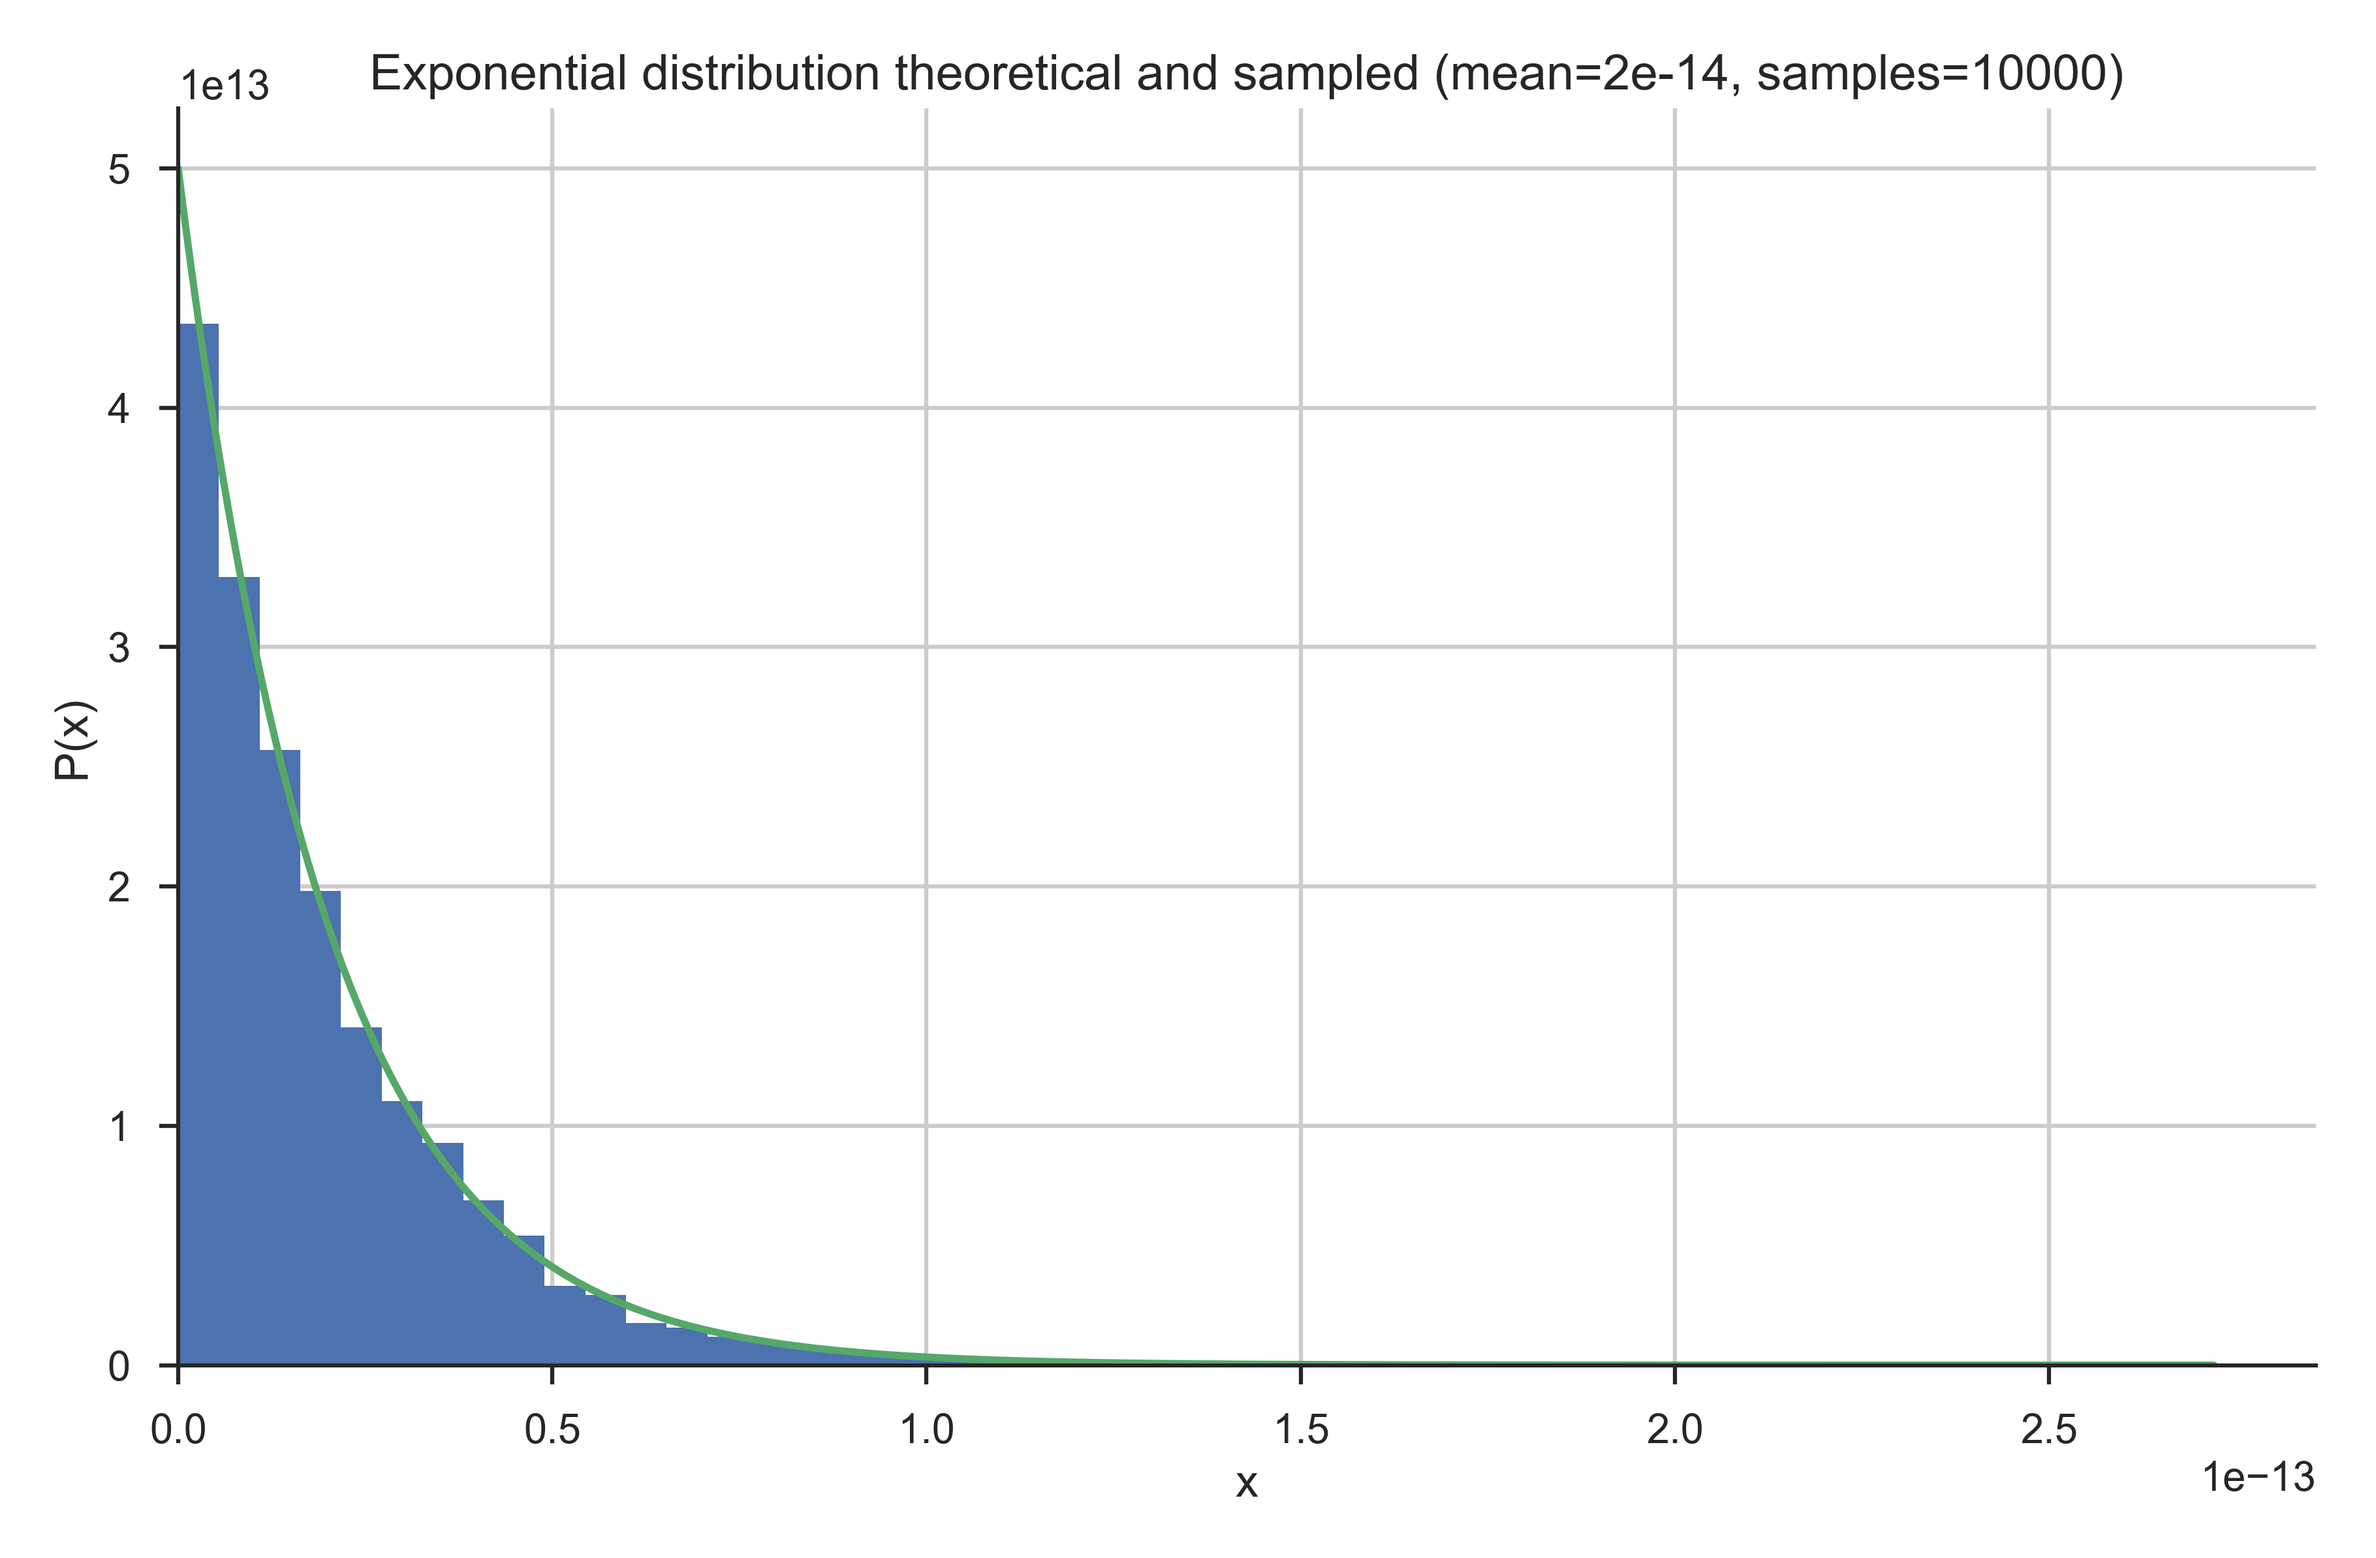
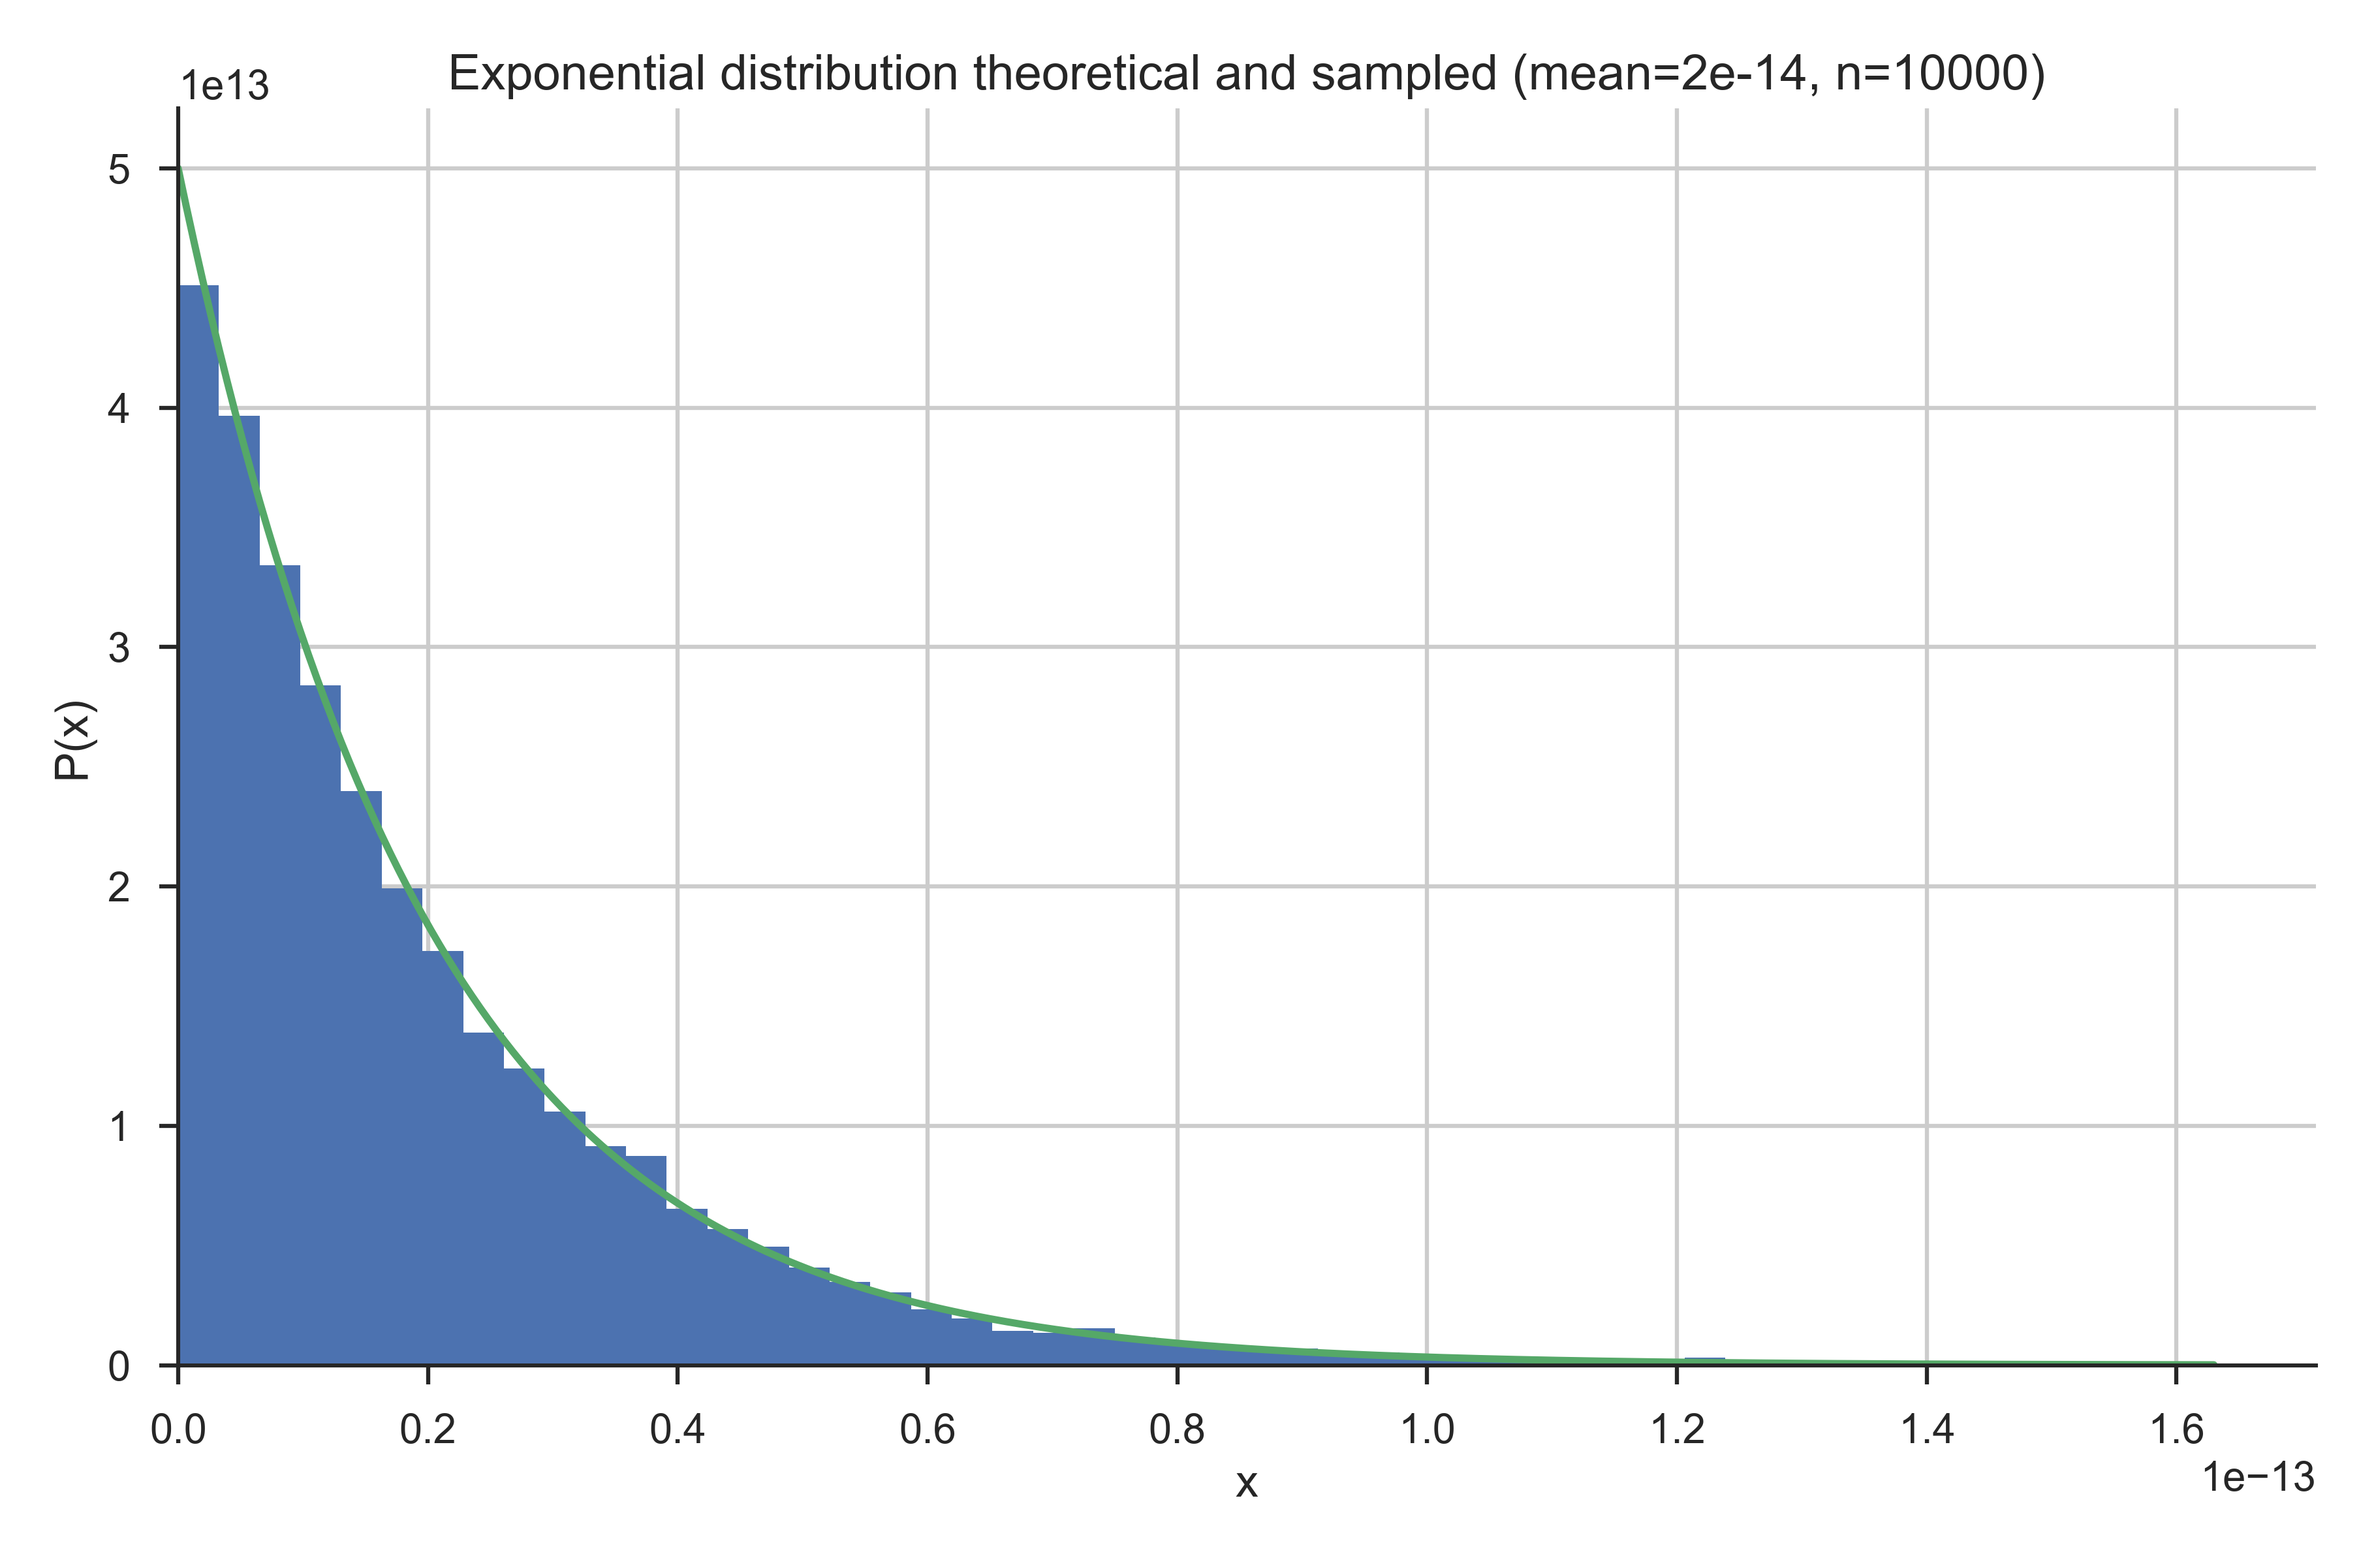
Update

diff --git a/helperFunctions.py b/helperFunctions.py
@@ -10,7 +10,7 @@ import matplotlib.pyplot as plt
 import seaborn as sns
 import numpy  as np
 from scipy import signal
-from modelAttributes import radarVals, linear2db, finalValues, expNoise
+from modelAttributes import radarVals, linear2db, finalValues, expNoise, chiNoise
 
 
 # Print  out initial attributes
@@ -82,7 +82,7 @@ def generatePt3q1Figures():
     sampleNum = 10e3
     gSamples = expNoise(sampleNum, meanValue)
     
-    # Create theoretical
+    # Create theoretical exponential
     xx = np.linspace(0, np.max(gSamples), 500)
     yy = (1 / meanValue) * np.exp(-xx / meanValue)
 
@@ -99,12 +99,30 @@ def generatePt3q1Figures():
     plt.ylabel('P(x)')
     plt.xlabel('x')
     plt.xlim(0,)
-    plt.title('Exponential distribution theoretical and sampled (mean=2e-14, samples=10000)')
+    plt.title('Exponential distribution theoretical and sampled (mean=2e-14, n=10000)')
     plt.tight_layout()
     plt.savefig('./Figures/hw3q1_fig1.png', dpi=350)
     plt.close()
     
-    
+    # Create chi-square
+    chiSamples = chiNoise(10e3, 2e-14, 4)
+    yyChi = ((4 * xx) / (2e-14**2)) * np.exp((-2 * xx) / 2e-14)
+    plt.figure()
+    ax = plt.subplot(111)
+    plt.grid()
+    ax.spines['top'].set_color('none')
+    ax.xaxis.set_ticks_position('bottom')
+    ax.spines['right'].set_color('none')
+    ax.yaxis.set_ticks_position('left')
+    plt.hist(chiSamples, 50, normed=True)
+    plt.plot(xx, yyChi)
+    plt.ylabel('P(x)')
+    plt.xlabel('x')
+    plt.xlim(0,1.2e-13)
+    plt.title('Chi-squared theoretical and sampled (mean=2e-14, n=10e3, degrees=4)')
+    plt.tight_layout()
+    plt.savefig('./Figures/hw3q1_fig2.png', dpi=350)
+    plt.close()
 
 
 # Plotting Stuff

diff --git a/modelAttributes.py b/modelAttributes.py
@@ -8,6 +8,7 @@ Created on Mon Mar  6 10:52:59 2017
 import numpy as np
 import scipy.io as sio
 import math
+import scipy.interpolate as interpolate
 
 # Auxilary functions 
 def degrees2radians(degrees):
@@ -28,6 +29,14 @@ def freq2lambda(frequency):
 def expNoise(samples, meanValue):
     return np.random.exponential(scale=meanValue, size=samples)
 
+def chiNoise(samples, meanValue, freedomDegrees):
+    xx = np.linspace(0, 4 * meanValue, 1000)
+    pdf = ((freedomDegrees * xx) / (meanValue**2)) * np.exp((-2 * xx) / meanValue)
+    pdf = pdf / np.sum(pdf)
+    cumVals = np.cumsum(pdf)
+    invCdf = interpolate.interp1d(cumVals, xx)
+    r = np.random.rand(samples)
+    return invCdf(r)
 
 # Input gain patterns
 gainDat = sio.loadmat('./InputData/antenna_pattern_N02_elements.mat')
